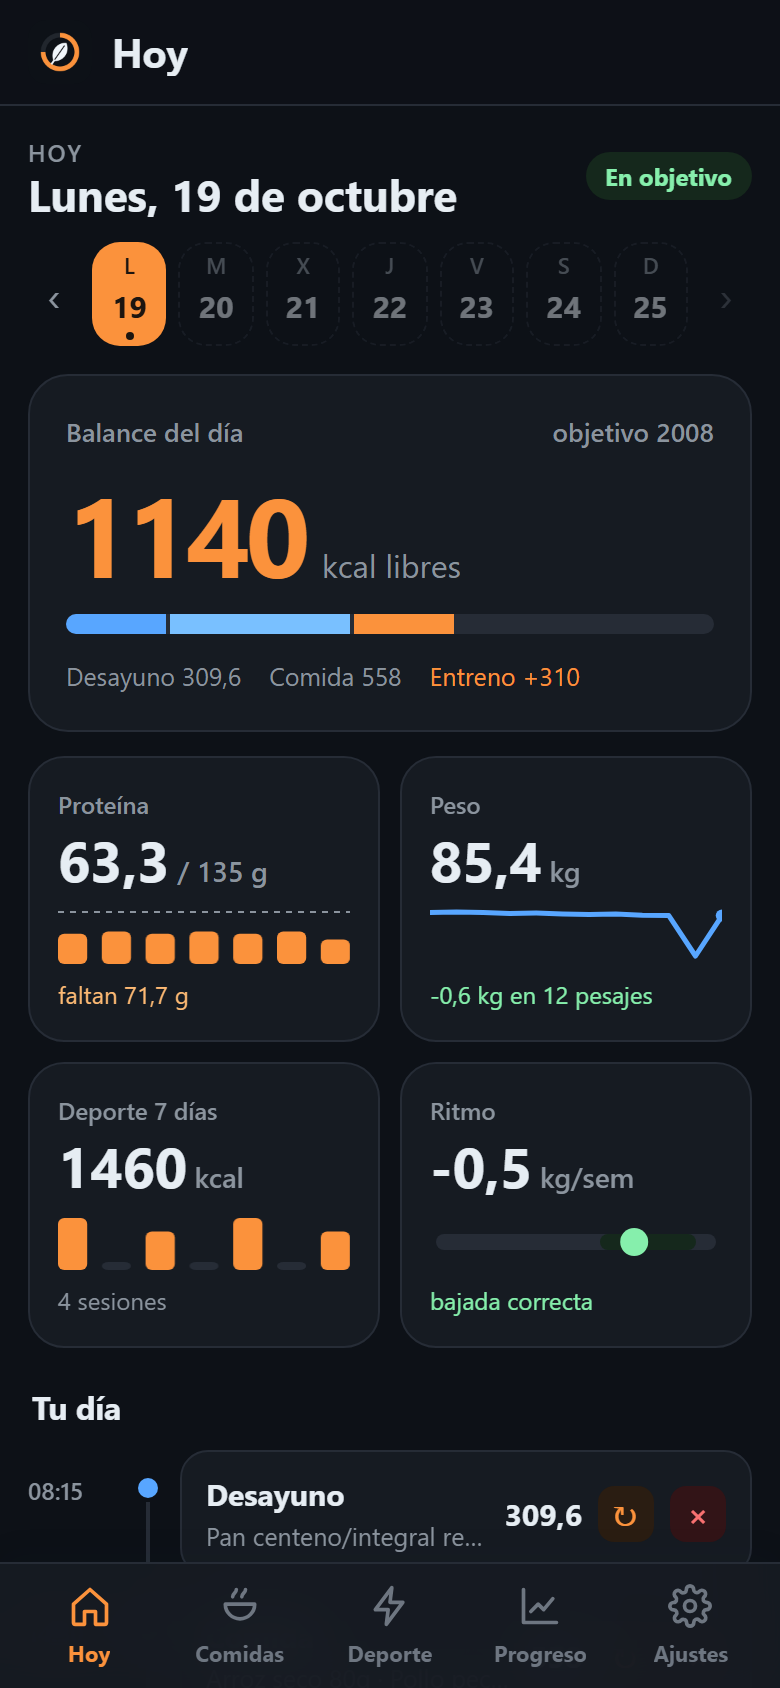
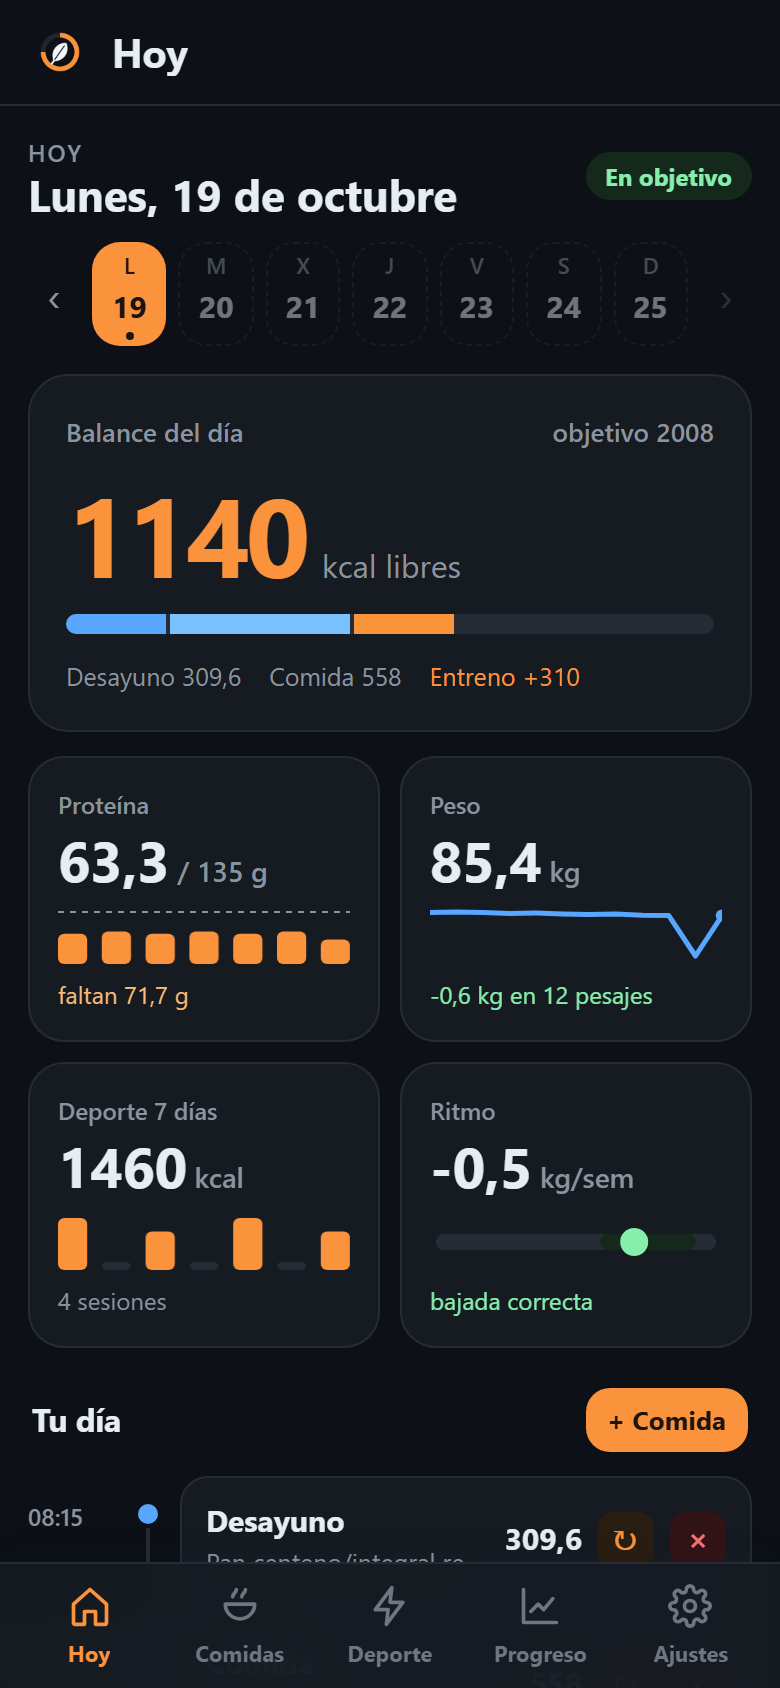
v0.5.0: history grouped by day, friendly dates, inline add-meal shortcut

diff --git a/static/app.js b/static/app.js
@@ -144,12 +144,6 @@ function dateBar() {
   const long = new Date(d + 'T12:00:00').toLocaleDateString('es-ES', {weekday: 'long', day: 'numeric', month: 'long'});
   return `<div class="datebar"><button class="btn small secondary" type="button" aria-label="Día anterior" onclick="shiftDay(-1)">‹</button><label class="datebar-pick"><b>${isToday ? 'Hoy' : esc(long)}</b>${isToday ? `<small>${esc(long)}</small>` : ''}<input id="dashDate" type="date" value="${esc(d)}" aria-label="Elegir día" onchange="setSelectedDate(this.value);render()"></label><button class="btn small secondary" type="button" aria-label="Día siguiente" onclick="shiftDay(1)" ${isToday ? 'disabled' : ''}>›</button>${isToday ? '' : '<button class="btn small" type="button" onclick="setSelectedDate(today());render()">Hoy</button>'}</div>`;
 }
-function mealCard(m) {
-  return `<article class="list-card"><header><div><h4>${esc(m.date)} · ${esc(m.time)} · ${esc(m.name)}</h4><p class="muted">${esc(m.notes || '')}</p></div><div class="card-actions"><button class="btn small secondary" title="Repetir hoy" onclick="repeatMeal(${Number(m.id)}, this)">↻</button><button class="btn small danger" onclick="deleteMeal(${Number(m.id)})">×</button></div></header><div class="chips">${(m.items || []).map((i) => `<span class="chip">${esc(i.food_name)} ${fmt(i.grams)}g</span>`).join('')}</div><b>${fmt(m.totals?.kcal)} kcal · ${fmt(m.totals?.protein)} g prot.</b></article>`;
-}
-function workoutCard(w) {
-  return `<article class="list-card"><header><div><h4>${esc(w.date)} · ${esc(w.time)} · ${esc(w.name)}</h4><p class="muted">${fmt(w.minutes)} min ${w.distance_km ? `· ${fmt(w.distance_km)} km` : ''} · ${esc(cleanWorkoutNote(w.notes))}</p></div><button class="btn small danger" onclick="deleteWorkout(${Number(w.id)})">×</button></header><b>${fmt(w.kcal)} kcal</b></article>`;
-}
 function cleanWorkoutNote(n) { return window.DPPDashboardWorkoutCard.cleanNote(n); }
 function mealCardCompact(m) { return window.DPPDashboardMealCard.mealCardCompact(m); }
 function workoutCardCompact(w) { return window.DPPDashboardWorkoutCard.workoutCardCompact(w); }
@@ -348,7 +342,7 @@ async function saveFood(btn) {
 
 /* ---------- Deporte ---------- */
 function ui5SportCard(w) {
-  return `<article class="ui5-sport-card"><div class="ui5-sport-head"><div><b>${esc(w.name || 'Entreno')}</b><small>${esc(w.date ? new Date(w.date + 'T12:00:00').toLocaleDateString('es-ES', {weekday: 'short', day: 'numeric', month: 'short'}) : '')} · ${esc(w.time || '')}</small></div><button class="icon-btn" type="button" aria-label="Borrar entreno" onclick="deleteWorkout(${Number(w.id)})">×</button></div><div class="ui5-sport-metrics"><span><b>${fmt(w.minutes)}</b><small>min</small></span>${Number(w.distance_km) > 0 ? `<span><b>${fmt(w.distance_km)}</b><small>km</small></span>` : ''}<span><b>${fmt(w.kcal)}</b><small>kcal</small></span></div>${cleanWorkoutNote(w.notes) ? `<p>${esc(cleanWorkoutNote(w.notes))}</p>` : ''}</article>`;
+  return `<article class="ui5-sport-card"><div class="ui5-sport-head"><div><b>${esc(w.name || 'Entreno')}</b><small>${esc(window.friendlyDate(w.date))} · ${esc(w.time || '')}</small></div><button class="icon-btn" type="button" aria-label="Borrar entreno" onclick="deleteWorkout(${Number(w.id)})">×</button></div><div class="ui5-sport-metrics"><span><b>${fmt(w.minutes)}</b><small>min</small></span>${Number(w.distance_km) > 0 ? `<span><b>${fmt(w.distance_km)}</b><small>km</small></span>` : ''}<span><b>${fmt(w.kcal)}</b><small>kcal</small></span></div>${cleanWorkoutNote(w.notes) ? `<p>${esc(cleanWorkoutNote(w.notes))}</p>` : ''}</article>`;
 }
 function renderSport() {
   const all = [...state.workouts].sort((a, b) => (b.date + b.time).localeCompare(a.date + a.time));
@@ -420,11 +414,10 @@ function renderWeights() {
       <details class="more-fields"><summary>Fecha, hora y contexto</summary><div class="row compact-row"><div class="field span-6"><label>Fecha</label><input id="wDate" type="date" value="${esc(today())}"></div><div class="field span-6"><label>Hora</label><input id="wTime" type="time" value="${esc(nowHM())}"></div><div class="field span-12"><label>Contexto</label><input id="wCtx" placeholder="mañana, después del baño"></div></div></details>
       <button class="btn block" onclick="saveWeight(this)">Guardar peso</button></div>
     <div class="card"><h3>Peso oficial</h3>${weightChart()}<p class="muted small-note">Solo pesos oficiales. Más detalle en <a href="#" onclick="go('progress');return false">Progreso</a>.</p></div></div>
-    <div class="section-title"><div><h3>Historial</h3><p>${all.length} registros</p></div></div><div class="list">${all.slice(0, listLimit('weights')).map((w) => `<div class="list-card row-card"><div><b>${fmt(w.kg)} kg</b><small class="muted">${esc(w.date)} ${esc(w.time)} · ${w.official ? 'oficial' : 'referencia'}${w.context ? ' · ' + esc(w.context) : ''}</small></div><button class="btn small danger" aria-label="Borrar peso" onclick="deleteWeight(${Number(w.id)})">×</button></div>`).join('')}</div>${moreButton('weights', all.length)}`;
+    <div class="section-title"><div><h3>Historial</h3><p>${all.length} registros</p></div></div><div class="list">${all.slice(0, listLimit('weights')).map((w) => `<div class="list-card row-card"><div><b>${fmt(w.kg)} kg</b><small class="muted">${esc(window.friendlyDate(w.date))} ${esc(w.time)} · ${w.official ? 'oficial' : 'referencia'}${w.context ? ' · ' + esc(w.context) : ''}</small></div><button class="btn small danger" aria-label="Borrar peso" onclick="deleteWeight(${Number(w.id)})">×</button></div>`).join('')}</div>${moreButton('weights', all.length)}`;
 }
 async function deleteWeight(id) { if (!confirm('¿Borrar peso?')) return; await api('/api/weights/' + id, {method: 'DELETE'}); toast('Peso borrado'); await load(); }
 
-function renderHistory() { $('#view').innerHTML = `<div class="grid cols-2"><div><div class="section-title"><div><h3>Comidas</h3><p>${state.meals.length} registradas · ↻ repite una comida hoy</p></div></div><div class="list">${state.meals.slice(0, listLimit('hmeals')).map(mealCard).join('')}</div>${moreButton('hmeals', state.meals.length)}</div><div><div class="section-title"><div><h3>Deporte</h3><p>${state.workouts.length} entrenos</p></div></div><div class="list">${state.workouts.slice(0, listLimit('hwork')).map(workoutCard).join('')}</div>${moreButton('hwork', state.workouts.length)}</div></div>`; }
 function renderIntegrations() { $('#view').innerHTML = '<div class="empty">Cargando integraciones…</div>'; }
 
 /* ---------- Shell ---------- */

diff --git a/static/js/features/history.js b/static/js/features/history.js
@@ -1,0 +1,59 @@
+/* Historial (v0.5.0): one timeline grouped by day, with friendly dates and daily totals. */
+(function () {
+  'use strict';
+
+  const DAYS_PER_PAGE = 7;
+  let shown = DAYS_PER_PAGE;
+
+  /** "Hoy", "Ayer" or "lun 19 oct" (with the year when it is not the current one). */
+  window.friendlyDate = function (iso) {
+    if (!iso) return '';
+    const d = new Date(iso + 'T12:00:00');
+    const t = new Date(today() + 'T12:00:00');
+    const diff = Math.round((t - d) / 86400000);
+    if (diff === 0) return 'Hoy';
+    if (diff === 1) return 'Ayer';
+    const opts = {weekday: 'short', day: 'numeric', month: 'short'};
+    if (d.getFullYear() !== t.getFullYear()) opts.year = 'numeric';
+    return d.toLocaleDateString('es-ES', opts).replace(/\./g, '');
+  };
+
+  function mealRow(m) {
+    const items = (m.items || []).map((i) => `<span class="chip">${esc(i.food_name)} ${fmt(i.grams)} g</span>`).join('');
+    return `<div class="hist-row"><time>${esc(m.time || '')}</time><div class="hist-main"><b>${esc(m.name || 'Comida')}</b><span class="hist-kcal">${fmt(m.totals?.kcal || 0)} kcal · ${fmt(m.totals?.protein || 0)} g prot</span>
+      ${items ? `<div class="chips">${items}</div>` : ''}${m.notes ? `<p class="muted">${esc(m.notes)}</p>` : ''}</div>
+      <div class="hist-actions"><button class="icon-btn" type="button" aria-label="Repetir hoy" title="Repetir hoy" onclick="repeatMeal(${Number(m.id)}, this)">↻</button><button class="icon-btn" type="button" aria-label="Borrar comida" onclick="deleteMeal(${Number(m.id)})">×</button></div></div>`;
+  }
+
+  function workoutRow(w) {
+    const bits = [`${fmt(w.minutes)} min`, Number(w.distance_km) > 0 ? `${fmt(w.distance_km)} km` : '', `${fmt(w.kcal)} kcal`].filter(Boolean).join(' · ');
+    const note = cleanWorkoutNote(w.notes);
+    return `<div class="hist-row sport"><time>${esc(w.time || '')}</time><div class="hist-main"><b>${esc(w.name || 'Entreno')}</b><span class="hist-kcal">${bits}</span>${note ? `<p class="muted">${esc(note)}</p>` : ''}</div>
+      <div class="hist-actions"><button class="icon-btn" type="button" aria-label="Borrar entreno" onclick="deleteWorkout(${Number(w.id)})">×</button></div></div>`;
+  }
+
+  function dayCard(date, meals, workouts) {
+    const kcal = meals.reduce((a, m) => a + (m.totals?.kcal || 0), 0);
+    const prot = meals.reduce((a, m) => a + (m.totals?.protein || 0), 0);
+    const burn = workouts.reduce((a, w) => a + Number(w.kcal || 0), 0);
+    const rows = [...meals.map((m) => [m.time || '', mealRow(m)]), ...workouts.map((w) => [w.time || '', workoutRow(w)])]
+      .sort((a, b) => a[0].localeCompare(b[0])).map((r) => r[1]).join('');
+    return `<section class="card hist-day"><header><h3>${esc(window.friendlyDate(date))}</h3>
+      <span class="hist-total"><b>${fmt(kcal)}</b> kcal · <b>${fmt(prot)}</b> g prot${burn ? ` · <span class="good">+${fmt(burn)} entreno</span>` : ''}</span></header>${rows}</section>`;
+  }
+
+  window.renderHistory = function () {
+    const days = new Map();
+    const slot = (d) => { if (!days.has(d)) days.set(d, {meals: [], workouts: []}); return days.get(d); };
+    state.meals.forEach((m) => slot(m.date).meals.push(m));
+    state.workouts.forEach((w) => slot(w.date).workouts.push(w));
+    const dates = [...days.keys()].sort().reverse();
+    const more = dates.length > shown
+      ? `<button class="btn secondary more-btn" type="button" onclick="window.dppHistoryMore()">Ver días anteriores (${dates.length - shown})</button>` : '';
+    $('#view').innerHTML = dates.length
+      ? `<p class="muted hist-lead">${state.meals.length} comidas y ${state.workouts.length} entrenos · ↻ repite una comida hoy</p>`
+        + dates.slice(0, shown).map((d) => dayCard(d, days.get(d).meals, days.get(d).workouts)).join('') + more
+      : '<div class="empty">Todavía no hay nada registrado. Empieza por Comidas › Registrar.</div>';
+  };
+  window.dppHistoryMore = () => { shown += DAYS_PER_PAGE; window.renderHistory(); };
+})();

diff --git a/static/index.html b/static/index.html
@@ -12,9 +12,9 @@
   <link rel="manifest" href="/static/manifest.webmanifest" />
   <link rel="icon" type="image/png" href="/static/icon-192.png" />
   <link rel="apple-touch-icon" href="/static/icon-192.png" />
-  <link rel="stylesheet" href="/static/css/base.css?v=040">
-  <link rel="stylesheet" href="/static/css/pages.css?v=040">
-  <link rel="stylesheet" href="/static/css/home.css?v=040">
+  <link rel="stylesheet" href="/static/css/base.css?v=050">
+  <link rel="stylesheet" href="/static/css/pages.css?v=050">
+  <link rel="stylesheet" href="/static/css/home.css?v=050">
 </head>
 <body>
   <div class="app-shell">
@@ -32,22 +32,23 @@
     </main>
   </div>
   <div id="toast" class="toast" role="status" aria-live="polite"></div>
-  <script src="/static/js/dashboard/meal-card.global.js?v=040"></script>
-  <script src="/static/js/dashboard/workout-card.global.js?v=040"></script>
-  <script src="/static/app.js?v=040"></script>
-  <script src="/static/js/core/shell.js?v=040"></script>
-  <script src="/static/js/features/charts.js?v=040"></script>
-  <script src="/static/js/features/home.js?v=040"></script>
-  <script src="/static/js/features/plan-editor.js?v=040"></script>
-  <script src="/static/js/features/progress.js?v=040"></script>
-  <script src="/static/js/features/goals.js?v=040"></script>
-  <script src="/static/js/features/food-lookup.js?v=040"></script>
-  <script src="/static/js/features/ai-coach.js?v=040"></script>
-  <script src="/static/dashboard-coach-v17.js?v=040"></script>
-  <script src="/static/strava-v018.js?v=040"></script>
-  <script src="/static/pantry-v019.js?v=040"></script>
-  <script src="/static/pantry-v019-polish.js?v=040"></script>
-  <script src="/static/activity-plan-v020.js?v=040"></script>
-  <script defer src="/static/mobile-bottom-nav.js?v=040"></script>
+  <script src="/static/js/dashboard/meal-card.global.js?v=050"></script>
+  <script src="/static/js/dashboard/workout-card.global.js?v=050"></script>
+  <script src="/static/app.js?v=050"></script>
+  <script src="/static/js/core/shell.js?v=050"></script>
+  <script src="/static/js/features/charts.js?v=050"></script>
+  <script src="/static/js/features/home.js?v=050"></script>
+  <script src="/static/js/features/plan-editor.js?v=050"></script>
+  <script src="/static/js/features/progress.js?v=050"></script>
+  <script src="/static/js/features/goals.js?v=050"></script>
+  <script src="/static/js/features/history.js?v=050"></script>
+  <script src="/static/js/features/food-lookup.js?v=050"></script>
+  <script src="/static/js/features/ai-coach.js?v=050"></script>
+  <script src="/static/dashboard-coach-v17.js?v=050"></script>
+  <script src="/static/strava-v018.js?v=050"></script>
+  <script src="/static/pantry-v019.js?v=050"></script>
+  <script src="/static/pantry-v019-polish.js?v=050"></script>
+  <script src="/static/activity-plan-v020.js?v=050"></script>
+  <script defer src="/static/mobile-bottom-nav.js?v=050"></script>
 </body>
 </html>

diff --git a/static/css/base.css b/static/css/base.css
@@ -254,8 +254,8 @@ input:focus, select:focus, textarea:focus { outline: none; border-color: var(--p
 .tabs::-webkit-scrollbar { display: none; }
 .tabs button, .tabs a { flex: 0 0 auto; min-height: 38px; padding: 0 14px; border: 0; border-radius: 10px; background: transparent; color: var(--text-2); font: inherit; font-size: 14px; font-weight: 600; text-decoration: none; display: inline-flex; align-items: center; cursor: pointer; white-space: nowrap; }
 .tabs button.is-active { background: var(--primary); color: var(--primary-ink); }
-.tab-actions { display: flex; gap: 4px; margin-left: auto; }
-.tab-actions button, .tab-actions a { color: var(--text); }
+.tab-actions { display: flex; flex-wrap: wrap; gap: 8px; }
+.tab-actions button, .tab-actions a { color: var(--text); border: 1px solid var(--border-strong); border-radius: 999px; padding: 8px 14px; font: inherit; font-size: 14px; text-decoration: none; background: transparent; cursor: pointer; }
 .nav-ico { display: inline-flex; align-items: center; justify-content: center; }
 .nav button.active .nav-ico { color: var(--primary); }
 /* v0.3.9 · Alimentos: search first, compact rows */
@@ -279,3 +279,20 @@ input:focus, select:focus, textarea:focus { outline: none; border-color: var(--p
 .plan-more { margin-top: 10px; }
 .plan-more > summary, .ui5-plan-json > summary { cursor: pointer; color: var(--text-2); list-style: none; }
 .ui5-plan-json > summary h3 { display: inline; }
+
+/* v0.5.0 · Historial grouped by day */
+.hist-lead { margin: 0 0 12px; }
+.hist-day { padding: 0; margin-bottom: 12px; overflow: hidden; }
+.hist-day > header { display: flex; flex-wrap: wrap; justify-content: space-between; align-items: baseline; gap: 4px 12px; padding: 12px 16px; background: var(--surface-2); border-bottom: 1px solid var(--border); }
+.hist-day h3 { margin: 0; text-transform: capitalize; }
+.hist-total { color: var(--text-2); font-size: 13px; font-variant-numeric: tabular-nums; }
+.hist-total b { color: var(--text); }
+.hist-row { display: grid; grid-template-columns: 44px 1fr auto; gap: 10px; padding: 12px 16px; border-bottom: 1px solid var(--border); }
+.hist-row:last-child { border-bottom: 0; }
+.hist-row time { color: var(--text-2); font-size: 13px; font-variant-numeric: tabular-nums; padding-top: 2px; }
+.hist-row.sport { border-left: 3px solid var(--primary); }
+.hist-main { min-width: 0; }
+.hist-main b { display: block; }
+.hist-kcal { color: var(--text-2); font-size: 13px; }
+.hist-main .chips { margin-top: 6px; }
+.hist-actions { display: flex; gap: 2px; align-items: flex-start; }

diff --git a/static/js/features/home.js b/static/js/features/home.js
@@ -137,8 +137,8 @@
       ...byDate(state.workouts, d).map((w) => ({time: w.time, kind: 'sport', html: `<div class="tl-card sport"><div><b>${esc(w.name)} · ${fmt(w.minutes)} min</b><small>${esc(cleanWorkoutNote(w.notes) || 'Entreno')}</small></div><strong>+${fmt(w.kcal)}</strong><span class="mini-actions"><button class="mini-delete" title="Borrar" aria-label="Borrar" onclick="deleteWorkout(${Number(w.id)})">×</button></span></div>`})),
     ].sort((a, b) => String(a.time).localeCompare(String(b.time)));
     const rows = items.map((it) => `<div class="tl-row ${it.kind}"><time>${esc(it.time || '')}</time><i></i>${it.html}</div>`).join('');
-    const empty = items.length ? '' : '<div class="tl-row"><time></time><i></i><div class="tl-card empty-card">Nada registrado este día. Usa <b>Comidas</b> para añadir lo que comes; los entrenos de Strava entran solos.</div></div>';
-    return `<h2 class="sec-title">Tu día</h2><section class="timeline">${rows}${empty}
+    const empty = items.length ? '' : '<div class="tl-row"><time></time><i></i><div class="tl-card empty-card">Nada registrado este día. Pulsa <b>+ Comida</b> para añadir lo que comes; los entrenos de Strava entran solos.</div></div>';
+    return `<div class="sec-head"><h2 class="sec-title">Tu día</h2><button class="btn small" type="button" onclick="go('register')">+ Comida</button></div><section class="timeline">${rows}${empty}
       <div class="tl-row next"><time>Ahora</time><i></i><section id="coachSlot" class="tl-card coach-card"><div class="coach-body"><span class="coach-kicker">COACH · SIGUIENTE COMIDA</span><p class="muted">Calculando…</p></div></section></div>
     </section>`;
   }

diff --git a/static/js/features/progress.js b/static/js/features/progress.js
@@ -49,7 +49,7 @@
   }
 
   function dailyTable(d) {
-    const rows = d.series.slice().reverse().map((x) => `<tr><td>${esc(x.date)}</td><td>${x.meals ? nf(x.kcal, 0) : '—'}</td><td>${nf(x.kcal_target, 0)}</td><td>${x.meals ? nf(x.protein, 0) : '—'}</td><td>${nf(x.workout_kcal, 0)}</td><td>${nf(x.weight, 2)}</td><td>${nf(x.trend, 2)}</td></tr>`).join('');
+    const rows = d.series.slice().reverse().map((x) => `<tr><td>${esc(window.friendlyDate(x.date))}</td><td>${x.meals ? nf(x.kcal, 0) : '—'}</td><td>${nf(x.kcal_target, 0)}</td><td>${x.meals ? nf(x.protein, 0) : '—'}</td><td>${nf(x.workout_kcal, 0)}</td><td>${nf(x.weight, 2)}</td><td>${nf(x.trend, 2)}</td></tr>`).join('');
     return `<details class="pg-details"><summary>Ver datos diarios (tabla)</summary><div class="pg-table-wrap"><table class="pg-table"><thead><tr><th>Fecha</th><th>kcal</th><th>Objetivo</th><th>Prot. g</th><th>Deporte</th><th>Peso</th><th>Tendencia</th></tr></thead><tbody>${rows}</tbody></table></div></details>`;
   }
 

diff --git a/static/activity-plan-v020.js b/static/activity-plan-v020.js
@@ -182,7 +182,7 @@
       <section class="activity-plan-layout">
         <div class="card activity-plan-calendar">
           <header class="activity-section-head">
-            <div><span>SEMANA</span><h3>${range.from} → ${range.to}</h3></div>
+            <div><span>SEMANA</span><h3>${[range.from, range.to].map((x) => new Date(x + 'T12:00:00').toLocaleDateString('es-ES', {day: 'numeric', month: 'short'}).replace(/\./g, '')).join(' – ')}</h3></div>
             <button class="btn" onclick="activityPlanNewForDate('${new Date().toISOString().slice(0, 10)}')">+ Planificar actividad</button>
           </header>
           <div id="activityWeek" class="activity-week-grid"><div class="activity-loading">Cargando planes y entrenos reales…</div></div>

diff --git a/static/css/home.css b/static/css/home.css
@@ -100,3 +100,6 @@
 .btn, .wk-day, .coach-action, .dpp-mobile-nav__item, .tl-card .mini-actions button { transition: transform .12s ease, background .15s ease, border-color .15s ease; }
 .btn:active, .wk-day:active, .coach-action:active, .dpp-mobile-nav__item:active, .tl-card .mini-actions button:active { transform: scale(.96); }
 .day-pick b.cap { font-size: 22px; }
+
+.sec-head { display: flex; align-items: center; justify-content: space-between; margin: 20px 2px 8px; }
+.sec-head .sec-title { margin: 0; }

diff --git a/dpp_config.py b/dpp_config.py
@@ -11,7 +11,7 @@ import os
 from pathlib import Path
 
 APP_NAME = "Diet Pro Planner"
-VERSION = "v0.4.0"
+VERSION = "v0.5.0"
 
 BASE_DIR = Path(__file__).resolve().parent
 

diff --git a/README.md b/README.md
@@ -11,11 +11,12 @@
 [![License: MIT](https://img.shields.io/badge/License-MIT-yellow.svg)](LICENSE)
 [![Local-first](https://img.shields.io/badge/data-stays%20on%20your%20server-167D62)](#privacy)
 
-<img src="docs/screenshots/resumen.png" width="150" alt="Hoy: week strip, daily balance and tiles">&nbsp;
-<img src="docs/screenshots/tu-dia.png" width="150" alt="The day as a timeline with the Coach">&nbsp;
-<img src="docs/screenshots/alimentos.png" width="150" alt="Foods: search, filters and Spanish supermarket products">&nbsp;
-<img src="docs/screenshots/deporte.png" width="150" alt="Sport: weekly totals and workout history">&nbsp;
-<img src="docs/screenshots/progreso.png" width="150" alt="Progress: trend, real rate and goal date">
+<img src="docs/screenshots/resumen.png" width="125" alt="Hoy: week strip, daily balance and tiles">&nbsp;
+<img src="docs/screenshots/tu-dia.png" width="125" alt="The day as a timeline with the Coach">&nbsp;
+<img src="docs/screenshots/alimentos.png" width="125" alt="Foods: search, filters and Spanish supermarket products">&nbsp;
+<img src="docs/screenshots/deporte.png" width="125" alt="Sport: weekly totals and workout history">&nbsp;
+<img src="docs/screenshots/progreso.png" width="125" alt="Progress: trend, real rate and goal date">&nbsp;
+<img src="docs/screenshots/historial.png" width="125" alt="History grouped by day with totals">
 
 <sub>Screenshots use demo data. The interface is in Spanish.</sub>
 
@@ -51,7 +52,7 @@ Five sections, the same on desktop (sidebar) and phone (bottom bar); the pages i
 | **Hoy** | Day summary, timeline and Coach |
 | **Comidas** | Registrar · Plantillas · Alimentos · Despensa · Plan semanal |
 | **Deporte** | Entrenos · Plan · Strava |
-| **Progreso** | Tendencias · Peso · Historial |
+| **Progreso** | Tendencias · Peso · Historial (meals and workouts grouped by day, with daily totals) |
 | **Ajustes** | Objetivos, Ayuda, Exportar datos, Salir |
 
 ## Quick start

diff --git a/CHANGELOG.md b/CHANGELOG.md
@@ -1,5 +1,13 @@
 # Changelog
 
+## v0.5.0 — History by day
+
+- Historial is one timeline grouped by day ('Hoy', 'Ayer', 'lun 19 oct') with the day's kcal, protein and workout burn; meals and workouts interleaved by time; older days load on demand.
+- Friendly dates everywhere instead of ISO (workout cards, weight history, progress table, weekly activity plan range).
+- 'Tu día' has an inline '+ Comida' shortcut (no floating button).
+- Ajustes actions (Ayuda, Exportar datos, Salir) are real buttons instead of tab-like links.
+- Removed the old meal/workout history cards and the duplicated renderer.
+
 ## v0.4.0 — Calmer screens, cleaner catalog
 
 - Deporte opens on your history (week totals, then workouts); adding a workout or exercise type is folded under '+ Entreno'. Dates read 'lun, 19 oct' and empty metrics (0 km) are hidden.
